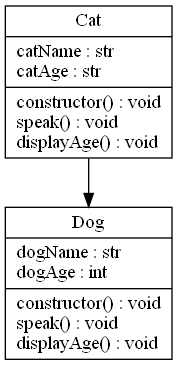
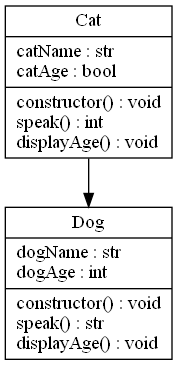
implement method return types to generated uml

Changed region(s): [[0.4802, 0.3014, 0.678, 0.3616], [0.4802, 0.8438, 0.678, 0.9041], [0.452, 0.1808, 0.6497, 0.211]]

diff --git a/test.js b/test.js
@@ -1,12 +1,14 @@
 class Cat {
     constructor(catName, catAge) {
       this.catName = "";
-      this.catAge = "";
+      this.catAge = true;
     }
     
     speak() {
       console.log(`${this.catName} makes a noise.`);
       dog = new Dog("Name", 123)
+
+      return 34
     }
 
     displayAge() {
@@ -22,6 +24,8 @@ class Dog {
   
   speak() {
     console.log(`${this.dogName} makes a noise.`);
+
+    return "MyString"
   }
 
   displayAge() {

diff --git a/src/javascript_handler.py b/src/javascript_handler.py
@@ -24,7 +24,7 @@ class JavascriptHandler():
                 "class_attribute_values": [],
                 "class_methods": [],
                 "class_method_values": [],
-                "class_method_params": [],
+                "class_method_params": [], #MAKE INTO DICT
                 "class_associations": []
             }
 
@@ -43,7 +43,7 @@ class JavascriptHandler():
             count = count + 1
             method_count = 0
             for method in my_methods:
-
+                current_method_value = ""
                 #if method.key.name == "constructor":
 
             
@@ -57,10 +57,13 @@ class JavascriptHandler():
                             current_class_attributes.append(current_attribute)
                             current_class_attribute_values.append(current_attribute_value)
 
-
-                    elif type(e.expression.right) != type(None) and e.expression.right.type == "NewExpression":
-                        #print(e.expression.right.callee.name)
-                        current_class["class_associations"].append(e.expression.right.callee.name)
+                    #print(e.expression)
+                    if e.expression != None:
+                        if e.expression.right != None:
+                            #print(e.expression.right)
+                            if e.expression.right.type == "NewExpression":
+                            #print(e.expression.right.callee.name)
+                                current_class["class_associations"].append(e.expression.right.callee.name)
 
                 current_class["class_attributes"] = current_class_attributes
                 current_class["class_attribute_values"] = current_class_attribute_values
@@ -78,16 +81,21 @@ class JavascriptHandler():
                     current_class_method_params.append(p.name) # Need to link params with specific method, instead of generic to the class
 
                 method_count = method_count + 1
+
                 for e in method.value.body.body:
                     if e.type == "ReturnStatement":
-                        current_method_value = e.argument.value
-                        current_class_method_return_values.append(current_method_value)
+                        current_method_value = type(e.argument.value).__name__
+
+                    if current_method_value == "":
+                        current_method_value = "void"
+                #print(current_method_value)
+                current_class_method_return_values.append(current_method_value)
 
  
 
-                current_class["class_methods"] = current_class_methods
-                current_class["class_method_values"] = current_class_method_return_values
-                current_class["class_method_params"] = current_class_method_params
+            current_class["class_methods"] = current_class_methods
+            current_class["class_method_values"] = current_class_method_return_values
+            current_class["class_method_params"] = current_class_method_params
                 #overall_class_methods.append(current_class_methods)
             my_classes.append(current_class)
 

diff --git a/src/dot_formatter.py b/src/dot_formatter.py
@@ -44,13 +44,16 @@ class DotFormatter():
                 count = count + 1
 
             current_class_label += "| "
-
+            count = 0
+            #print(current_class_method_values)
             for method in current_class_methods: # Do for method return types like I did for attribute types - WIP - 
-                current_class_label += method + "() : void\l" #.format()
+                #print(current_class_method_values)
+                current_class_label += method + f"() : {current_class_method_values[count]}\l" #.format()
+                count = count + 1
 
             for relationship in current_class_associations:
                 #relationships += "{0} -> {1}\n".format(current_class, relationship)
-                print(relationship)
+                #print(relationship)
                 dot.edge(current_class, relationship)
 
 
